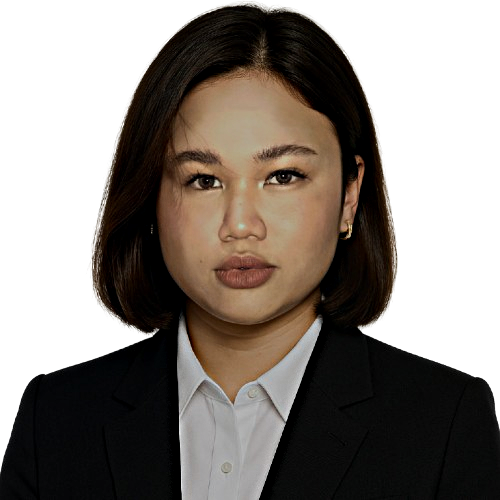
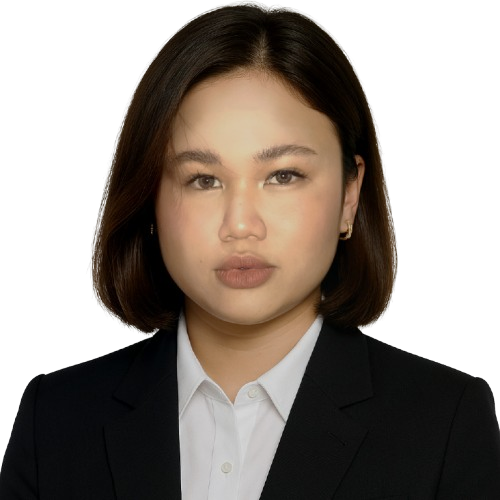
User Interface Desktop UI Done

Changed region(s): [[0.3, 0.09, 0.75, 1.0], [0.75, 0.48, 0.78, 0.54]]

diff --git a/components/ProfileCard.tsx b/components/ProfileCard.tsx
@@ -464,51 +464,54 @@ const ProfileCardComponent: React.FC<ProfileCardProps> = ({
             className="absolute inset-0"
             style={{
               backgroundImage: 'var(--inner-gradient)',
-              backgroundColor: 'rgba(0, 0, 0, 0.9)',
+              backgroundColor: 'rgba(0, 0, 0, 0.1)',
               borderRadius: cardRadius,
               display: 'grid',
-              gridArea: '1 / -1'
+              gridArea: '1 / -1',
+              backdropFilter: 'blur(10px)',
+              WebkitBackdropFilter: 'blur(10px)'
             }}
           >
-            {/* Shine layer */}
-            <div style={shineStyle} />
-
-            {/* Glare layer */}
-            <div style={glareStyle} />
-
-            {/* Avatar content */}
+            {/* Avatar content - MOVED TO TOP */}
             <div
               className="overflow-visible"
               style={{
-                mixBlendMode: 'luminosity',
-                transform: 'translateZ(2px)',
+                mixBlendMode: 'normal',
+                transform: 'translateZ(10px)',
                 gridArea: '1 / -1',
                 borderRadius: cardRadius,
                 pointerEvents: 'none',
-                backfaceVisibility: 'hidden'
+                backfaceVisibility: 'hidden',
+                zIndex: 100,
+                position: 'relative'
               }}
             >
               <img
                 className="w-full absolute left-1/2 bottom-[-1px] will-change-transform transition-transform duration-[120ms] ease-out"
                 src={avatarUrl}
                 alt={`${name || 'User'} avatar`}
-                loading="lazy"
+                loading="eager"
                 style={{
                   transformOrigin: '50% 100%',
                   transform:
                     'translateX(calc(-50% + (var(--pointer-from-left) - 0.5) * 6px)) translateZ(0) scaleY(calc(1 + (var(--pointer-from-top) - 0.5) * 0.02)) scaleX(calc(1 + (var(--pointer-from-left) - 0.5) * 0.01))',
                   borderRadius: cardRadius,
-                  backfaceVisibility: 'hidden'
+                  backfaceVisibility: 'hidden',
+                  filter: 'brightness(1.0) contrast(0.95) saturate(0.9)',
+                  opacity: 1,
+                  zIndex: 100
                 }}
                 onError={e => {
                   const t = e.target as HTMLImageElement;
-                  t.style.display = 'none';
+                  console.error('Image failed to load:', avatarUrl);
+                  t.style.display = 'block';
+                  t.style.opacity = '0.5';
                 }}
               />
 
               {showUserInfo && (
                 <div
-                  className="absolute z-[2] flex items-center justify-between backdrop-blur-[30px] border border-white/10 pointer-events-auto"
+                  className="absolute flex items-center justify-between backdrop-blur-[30px] border border-white/20 pointer-events-auto"
                   style={
                     {
                       '--ui-inset': '20px',
@@ -516,15 +519,17 @@ const ProfileCardComponent: React.FC<ProfileCardProps> = ({
                       bottom: 'var(--ui-inset)',
                       left: 'var(--ui-inset)',
                       right: 'var(--ui-inset)',
-                      background: 'rgba(255, 255, 255, 0.1)',
+                      background: 'rgba(255, 255, 255, 0.15)',
                       borderRadius: 'calc(max(0px, var(--card-radius) - var(--ui-inset) + var(--ui-radius-bias)))',
-                      padding: '12px 14px'
+                      padding: '12px 14px',
+                      boxShadow: '0 8px 32px 0 rgba(0, 0, 0, 0.37)',
+                      zIndex: 200
                     } as React.CSSProperties
                   }
                 >
                   <div className="flex items-center gap-3">
                     <div
-                      className="rounded-full overflow-hidden border border-white/10 flex-shrink-0"
+                      className="rounded-full overflow-hidden border-2 border-white/20 flex-shrink-0"
                       style={{ width: '48px', height: '48px' }}
                     >
                       <img
@@ -542,13 +547,13 @@ const ProfileCardComponent: React.FC<ProfileCardProps> = ({
                     </div>
 
                     <div className="flex flex-col items-start gap-1.5">
-                      <div className="text-sm font-medium text-white/90 leading-none">@{handle}</div>
-                      <div className="text-sm text-white/70 leading-none">{status}</div>
+                      <div className="text-xs font-medium text-white leading-none" style={{ fontSize: '10px' }}>{handle}</div>
+                      <div className="text-xs text-white/80 leading-none" style={{ fontSize: '10px' }}>{status}</div>
                     </div>
                   </div>
 
                   <button
-                    className="border border-white/10 rounded-lg px-4 py-3 text-xs font-semibold text-white/90 cursor-pointer backdrop-blur-[10px] transition-all duration-200 ease-out hover:border-white/40 hover:-translate-y-px"
+                    className="border border-white/20 rounded-lg px-4 py-3 text-xs font-semibold text-white cursor-pointer backdrop-blur-[10px] transition-all duration-200 ease-out hover:border-white/50 hover:bg-white/10 hover:-translate-y-px"
                     onClick={handleContactClick}
                     style={{ pointerEvents: 'auto', display: 'block', gridArea: 'auto', borderRadius: '8px' }}
                     type="button"
@@ -566,7 +571,7 @@ const ProfileCardComponent: React.FC<ProfileCardProps> = ({
               style={{
                 transform:
                   'translate3d(calc(var(--pointer-from-left) * -6px + 3px), calc(var(--pointer-from-top) * -6px + 3px), 0.1px)',
-                mixBlendMode: 'luminosity',
+                mixBlendMode: 'normal',
                 gridArea: '1 / -1',
                 borderRadius: cardRadius,
                 pointerEvents: 'none'
@@ -577,11 +582,8 @@ const ProfileCardComponent: React.FC<ProfileCardProps> = ({
                   className="font-semibold m-0"
                   style={{
                     fontSize: 'min(5svh, 3em)',
-                    backgroundImage: 'linear-gradient(to bottom, #fff, #6f6fbe)',
-                    backgroundSize: '1em 1.5em',
-                    WebkitTextFillColor: 'transparent',
-                    backgroundClip: 'text',
-                    WebkitBackgroundClip: 'text',
+                    color: '#ffffff',
+                    textShadow: '0 2px 10px rgba(0, 0, 0, 0.5)',
                     display: 'block',
                     gridArea: 'auto',
                     borderRadius: '0',
@@ -597,11 +599,8 @@ const ProfileCardComponent: React.FC<ProfileCardProps> = ({
                     top: '-12px',
                     fontSize: '16px',
                     margin: '0 auto',
-                    backgroundImage: 'linear-gradient(to bottom, #fff, #4a4ac0)',
-                    backgroundSize: '1em 1.5em',
-                    WebkitTextFillColor: 'transparent',
-                    backgroundClip: 'text',
-                    WebkitBackgroundClip: 'text',
+                    color: '#e0e0e0',
+                    textShadow: '0 2px 8px rgba(0, 0, 0, 0.5)',
                     display: 'block',
                     gridArea: 'auto',
                     borderRadius: '0',

diff --git a/app/about/page.tsx b/app/about/page.tsx
@@ -4,35 +4,112 @@ import { motion } from 'framer-motion';
 import SectionTitle from '@/components/SectionTitle';
 import DarkVeil from '@/components/DarkVeil';
 import ProfileCard from '@/components/ProfileCard';
+import Masonry from '@/components/Masonry';
 import { Award, Users, Zap, Target } from 'lucide-react';
 import { usePageView } from '@/hooks/usePageView';
 
 export default function About() {
   usePageView('about');
+  
+  const masonryItems = [
+    {
+      id: '1',
+      img: '/assets/products-asset/business-card.jpg',
+      url: '/products',
+      height: 400
+    },
+    {
+      id: '2',
+      img: '/assets/products-asset/customized-stickers.jpg',
+      url: '/products',
+      height: 350
+    },
+    {
+      id: '3',
+      img: '/assets/products-asset/photocards.jpg',
+      url: '/products',
+      height: 500
+    },
+    {
+      id: '4',
+      img: '/assets/products-asset/Invitation-cards.jpg',
+      url: '/products',
+      height: 450
+    },
+    {
+      id: '5',
+      img: '/assets/products-asset/customized-pins.jpg',
+      url: '/products',
+      height: 380
+    },
+    {
+      id: '6',
+      img: '/assets/products-asset/magnetic-bookmarks.jpg',
+      url: '/products',
+      height: 420
+    },
+    {
+      id: '7',
+      img: '/assets/products-asset/Keychains.jpg',
+      url: '/products',
+      height: 400
+    },
+    {
+      id: '8',
+      img: '/assets/products-asset/Ref-magnets.jpg',
+      url: '/products',
+      height: 360
+    },
+    {
+      id: '9',
+      img: '/assets/products-asset/customized-box.png',
+      url: '/products',
+      height: 440
+    },
+    {
+      id: '10',
+      img: '/assets/products-asset/customized-loot-chip-bags.jpg',
+      url: '/products',
+      height: 390
+    },
+    {
+      id: '11',
+      img: '/assets/products-asset/customized-sintr-boards.jpg',
+      url: '/products',
+      height: 410
+    },
+    {
+      id: '12',
+      img: '/assets/products-asset/cute-couple-pins.jpg',
+      url: '/products',
+      height: 370
+    }
+  ];
+
   const team = [
     {
       name: 'Aki Zita',
       role: 'Editor / Developer',
       email: 'zitacristel@gmail.com',
-      avatarUrl: '/assets/aki.png',
-      behindGlowColor: 'rgba(125, 190, 255, 0.67)',
-      innerGradient: 'linear-gradient(145deg,#60496e8c 0%,#71C4FF44 100%)',
+      avatarUrl: '/team/aki.png',
+      behindGlowColor: 'rgba(125, 190, 255, 0.2)',
+      innerGradient: 'linear-gradient(145deg, rgba(255, 255, 255, 0.05) 0%, rgba(255, 255, 255, 0.02) 100%)',
     },
     {
       name: 'Stacy Lugares',
       role: 'Business Owner',
       email: 'cithruscaleb20@gmail.com',
-      avatarUrl: '/assets/stacy.png',
-      behindGlowColor: 'rgba(233, 30, 99, 0.67)',
-      innerGradient: 'linear-gradient(145deg,#6e4960 0%,#FF71C444 100%)',
+      avatarUrl: '/team/stacy.png',
+      behindGlowColor: 'rgba(233, 30, 99, 0.2)',
+      innerGradient: 'linear-gradient(145deg, rgba(255, 255, 255, 0.05) 0%, rgba(255, 255, 255, 0.02) 100%)',
     },
     {
       name: 'Cheannaly Dearing',
       role: 'Social Media Manager',
       email: 'cheannalyjoyeusantos@gmail.com',
-      avatarUrl: '/assets/chea.png',
-      behindGlowColor: 'rgba(82, 39, 255, 0.67)',
-      innerGradient: 'linear-gradient(145deg,#4e3c6e 0%,#9D71FF44 100%)',
+      avatarUrl: '/team/chea.png',
+      behindGlowColor: 'rgba(82, 39, 255, 0.2)',
+      innerGradient: 'linear-gradient(145deg, rgba(255, 255, 255, 0.05) 0%, rgba(255, 255, 255, 0.02) 100%)',
     },
   ];
 
@@ -96,8 +173,8 @@ export default function About() {
                 whileInView={{ opacity: 1, x: 0 }}
                 viewport={{ once: true }}
               >
-                <h2 className="text-3xl font-bold text-white mb-6">Our Story</h2>
-                <div className="space-y-4 text-gray-300">
+                <h2 className="text-4xl font-bold text-white mb-8">Our Story</h2>
+                <div className="space-y-6 text-gray-300 text-lg">
                   <p>
                     Founded by three ambitious friends, CSA Print & Design is the result of entrepreneurial spirit and professional investment. We saw an opportunity to bridge the gap between creative ideas and high-quality physical prints.
                   </p>
@@ -114,8 +191,20 @@ export default function About() {
                 initial={{ opacity: 0, x: 20 }}
                 whileInView={{ opacity: 1, x: 0 }}
                 viewport={{ once: true }}
-                className="aspect-video bg-gradient-to-br from-blue-600 via-purple-600 to-pink-600 rounded-xl shadow-lg"
-              />
+                className="scale-90 origin-center"
+              >
+                <Masonry
+                  items={masonryItems}
+                  ease="power3.out"
+                  duration={0.6}
+                  stagger={0.05}
+                  animateFrom="bottom"
+                  scaleOnHover
+                  hoverScale={0.95}
+                  blurToFocus
+                  colorShiftOnHover={false}
+                />
+              </motion.div>
             </div>
           </section>
 
@@ -159,7 +248,7 @@ export default function About() {
                     miniAvatarUrl={member.avatarUrl}
                     name={member.name}
                     title={member.role}
-                    handle={member.email.split('@')[0]}
+                    handle={member.email}
                     status="Available"
                     contactText="Email"
                     showUserInfo={true}
